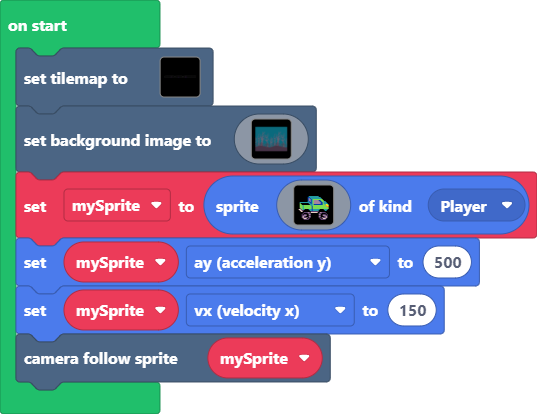
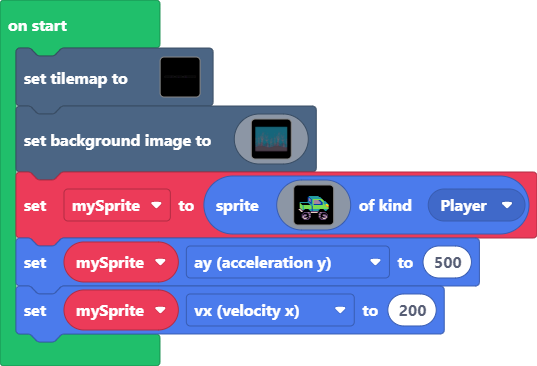
velocity X = 200

diff --git a/tilemap.g.ts b/tilemap.g.ts
@@ -28,6 +28,25 @@ namespace myTiles {
 2...................................................................................................................................................................................
 22222222222222222222222222222222222222.....222222222222222222222222222222222222.....2222222222222222222222222222222222........222222222222222222222222222222222222222222222222222222
 `, [myTiles.transparency16,myTiles.tile1,myTiles.tile3,myTiles.tile4,myTiles.tile5,myTiles.tile6,sprites.builtin.forestTiles11,sprites.builtin.forestTiles7,sprites.builtin.forestTiles15,sprites.builtin.forestTiles5,sprites.builtin.forestTiles9], TileScale.Sixteen);
+            case "level2":
+            case "level2":return tiles.createTilemap(hex`1000100000000000000000000000000000000000000000000000000000000000000000000000000000000000000000000000000000000000000000000000000000000000000000000000000000000000000000000000000000000000000000000000000000000000000000000000000000000000000000000000000000000000000000000000000000000000000000000000000000000000000000000000000000000000000000000000000000000000000000000000000000000000000000000000000000000000000000000000000000000000000000000000000000000000000000000000000000000000000000000000000000000000000000000000000000000000`, img`
+. . . . . . . . . . . . . . . . 
+. . . . . . . . . . . . . . . . 
+. . . . . . . . . . . . . . . . 
+. . . . . . . . . . . . . . . . 
+. . . . . . . . . . . . . . . . 
+. . . . . . . . . . . . . . . . 
+. . . . . . . . . . . . . . . . 
+. . . . . . . . . . . . . . . . 
+. . . . . . . . . . . . . . . . 
+. . . . . . . . . . . . . . . . 
+. . . . . . . . . . . . . . . . 
+. . . . . . . . . . . . . . . . 
+. . . . . . . . . . . . . . . . 
+. . . . . . . . . . . . . . . . 
+. . . . . . . . . . . . . . . . 
+. . . . . . . . . . . . . . . . 
+`, [myTiles.transparency16], TileScale.Sixteen);
         }
         return null;
     })

diff --git a/main.ts b/main.ts
@@ -2,5 +2,4 @@ tiles.setTilemap(tilemap`level1`)
 scene.setBackgroundImage(assets.image`background`)
 let mySprite = sprites.create(assets.image`truck1`, SpriteKind.Player)
 mySprite.ay = 500
-mySprite.vx = 150
-scene.cameraFollowSprite(mySprite)
+mySprite.vx = 200
